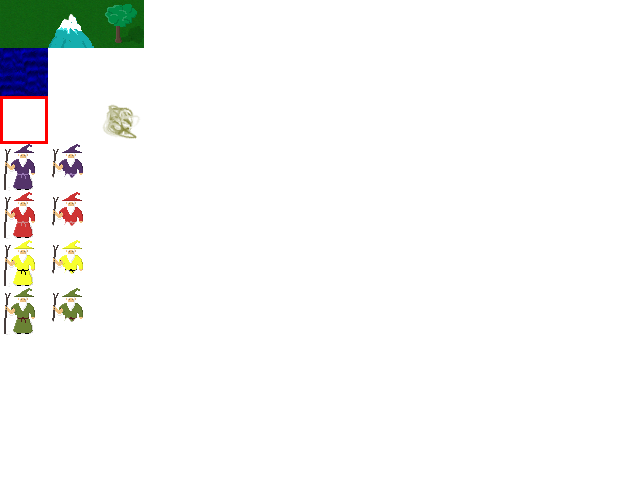
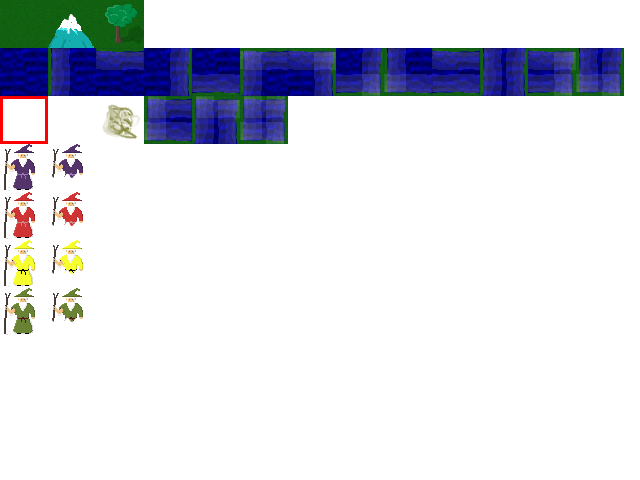
added coastlines. And we're done. I wish I had more time to make the game actually fun

Changed region(s): [[0.0625, 0.0938, 1.0, 0.3125]]

diff --git a/game_window.py b/game_window.py
@@ -95,6 +95,28 @@ class Tiles(object):
                 col.append( TileData(Point(x,y),type,movement_cost))
             self.map.append(col)
 
+        #sort out the coasts
+        for x in xrange(len(self.map)):
+            for y in xrange(len(self.map[x])):
+                tile = self.map[x][y]
+                if tile.name == 'water':
+                    #look to the left
+                    coast_type = []
+                    for (a,b),name in (((-1,0),'left'),
+                                     ((0,1),'top'),
+                                     ((1,0),'right'),
+                                     ((0,-1),'bottom')):
+                        if y+b >= self.height or y+b < 0:
+                            type = 'water'
+                        else:
+                            type = self.map[(x+a+self.width)%self.width][y+b].name
+                        if type in ['grass','mountain','tree']:
+                            coast_type.append(name)
+                    coast_type.sort()
+                    if len(coast_type) > 0:
+                        self.map[x][y].name = 'coast_' + '_'.join(coast_type)
+                        
+
         #Fill in the fixed vertices for the tiles
         index = 0
         for col in self.map:

diff --git a/wizard.py b/wizard.py
@@ -183,6 +183,8 @@ class Wizard(object):
         tile_data = self.tiles.GetTile(pos)
         tile_type = tile_data.name
         utils.setvertices(self.quad.vertex,utils.WorldCoords(self.pos),utils.WorldCoords(self.pos)+gamedata.tile_dimensions,0.5)
+        if 'coast' in tile_type:
+            tile_type = 'water'
         full_type = wizard_types[self.type] + '_' + tile_type
         self.quad.tc[0:4] = self.tiles.tex_coords[full_type]
         tile_data.SetActor(self)

diff --git a/wizards.py b/wizards.py
@@ -5,13 +5,14 @@ import utils
 from OpenGL.GL import *
 from OpenGL.GLU import *
 from utils import Point
-import game_window,wizard,texture,main_menu
+import game_window,wizard,texture,main_menu,random
 #some sort of hack to get py2exe to work
 try:
     from OpenGL.platform import win32
 except AttributeError:
     pass
 
+#random.seed(7)
 pygame.init()
 
 class GameData(object):
